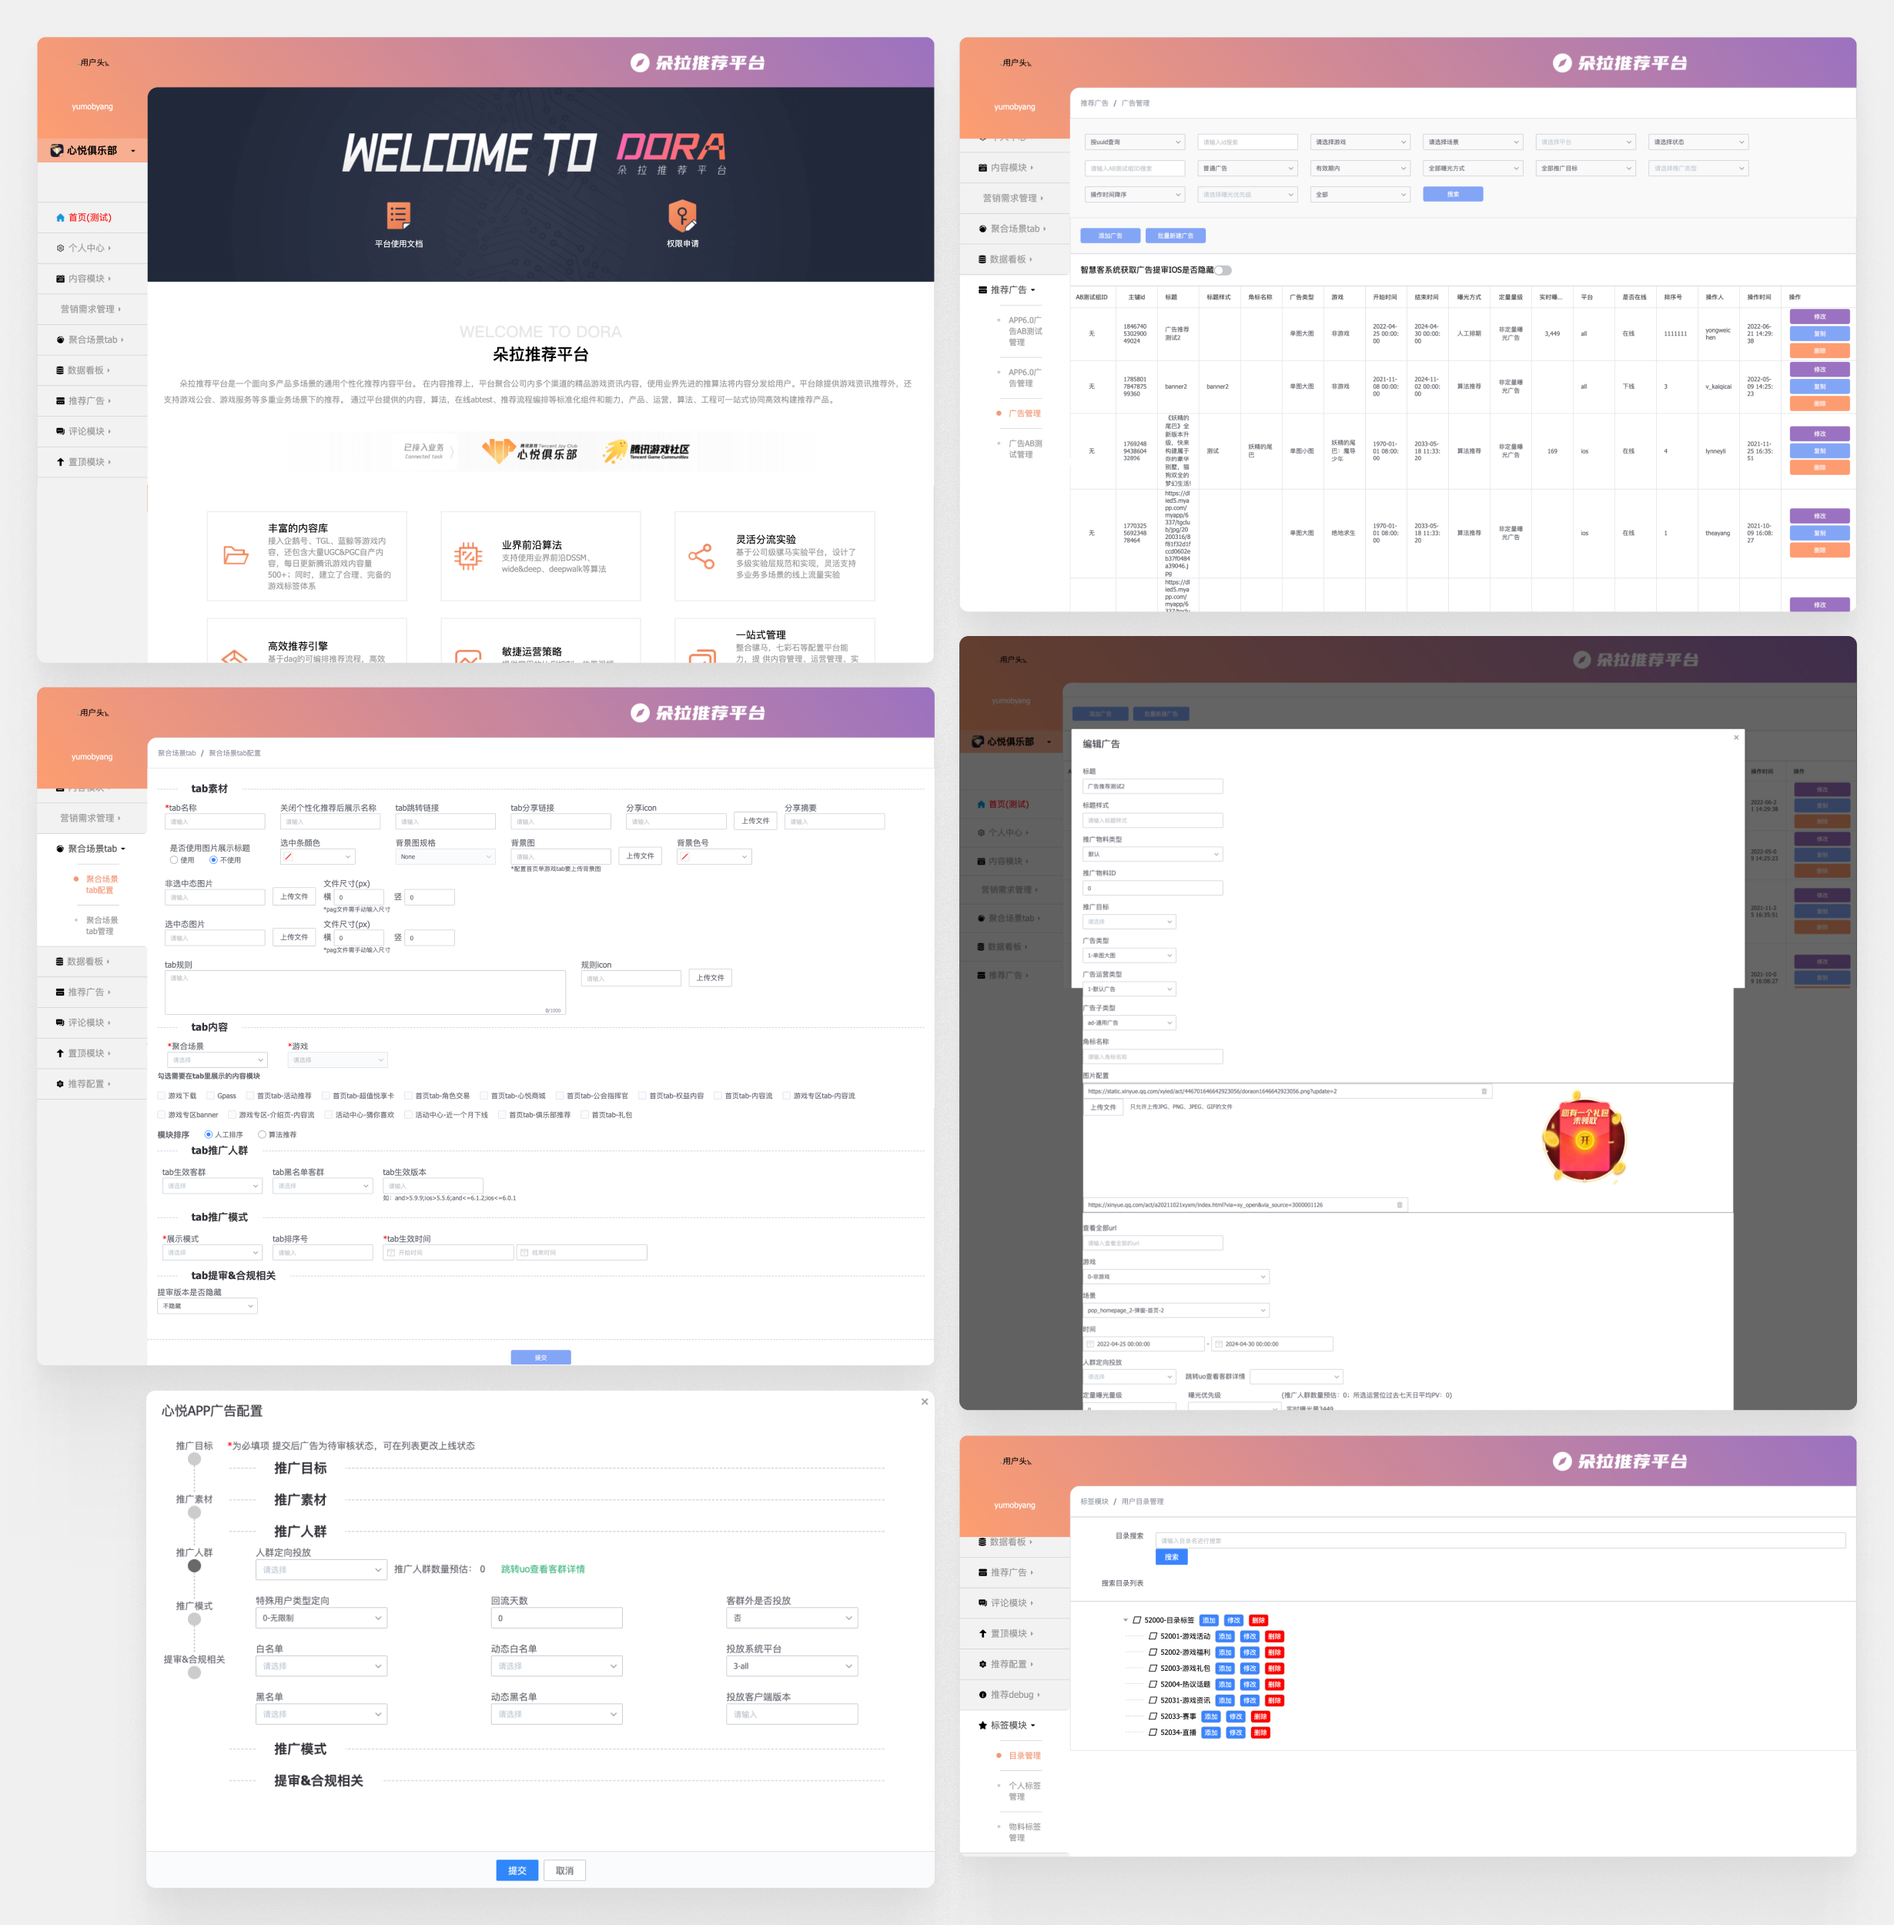
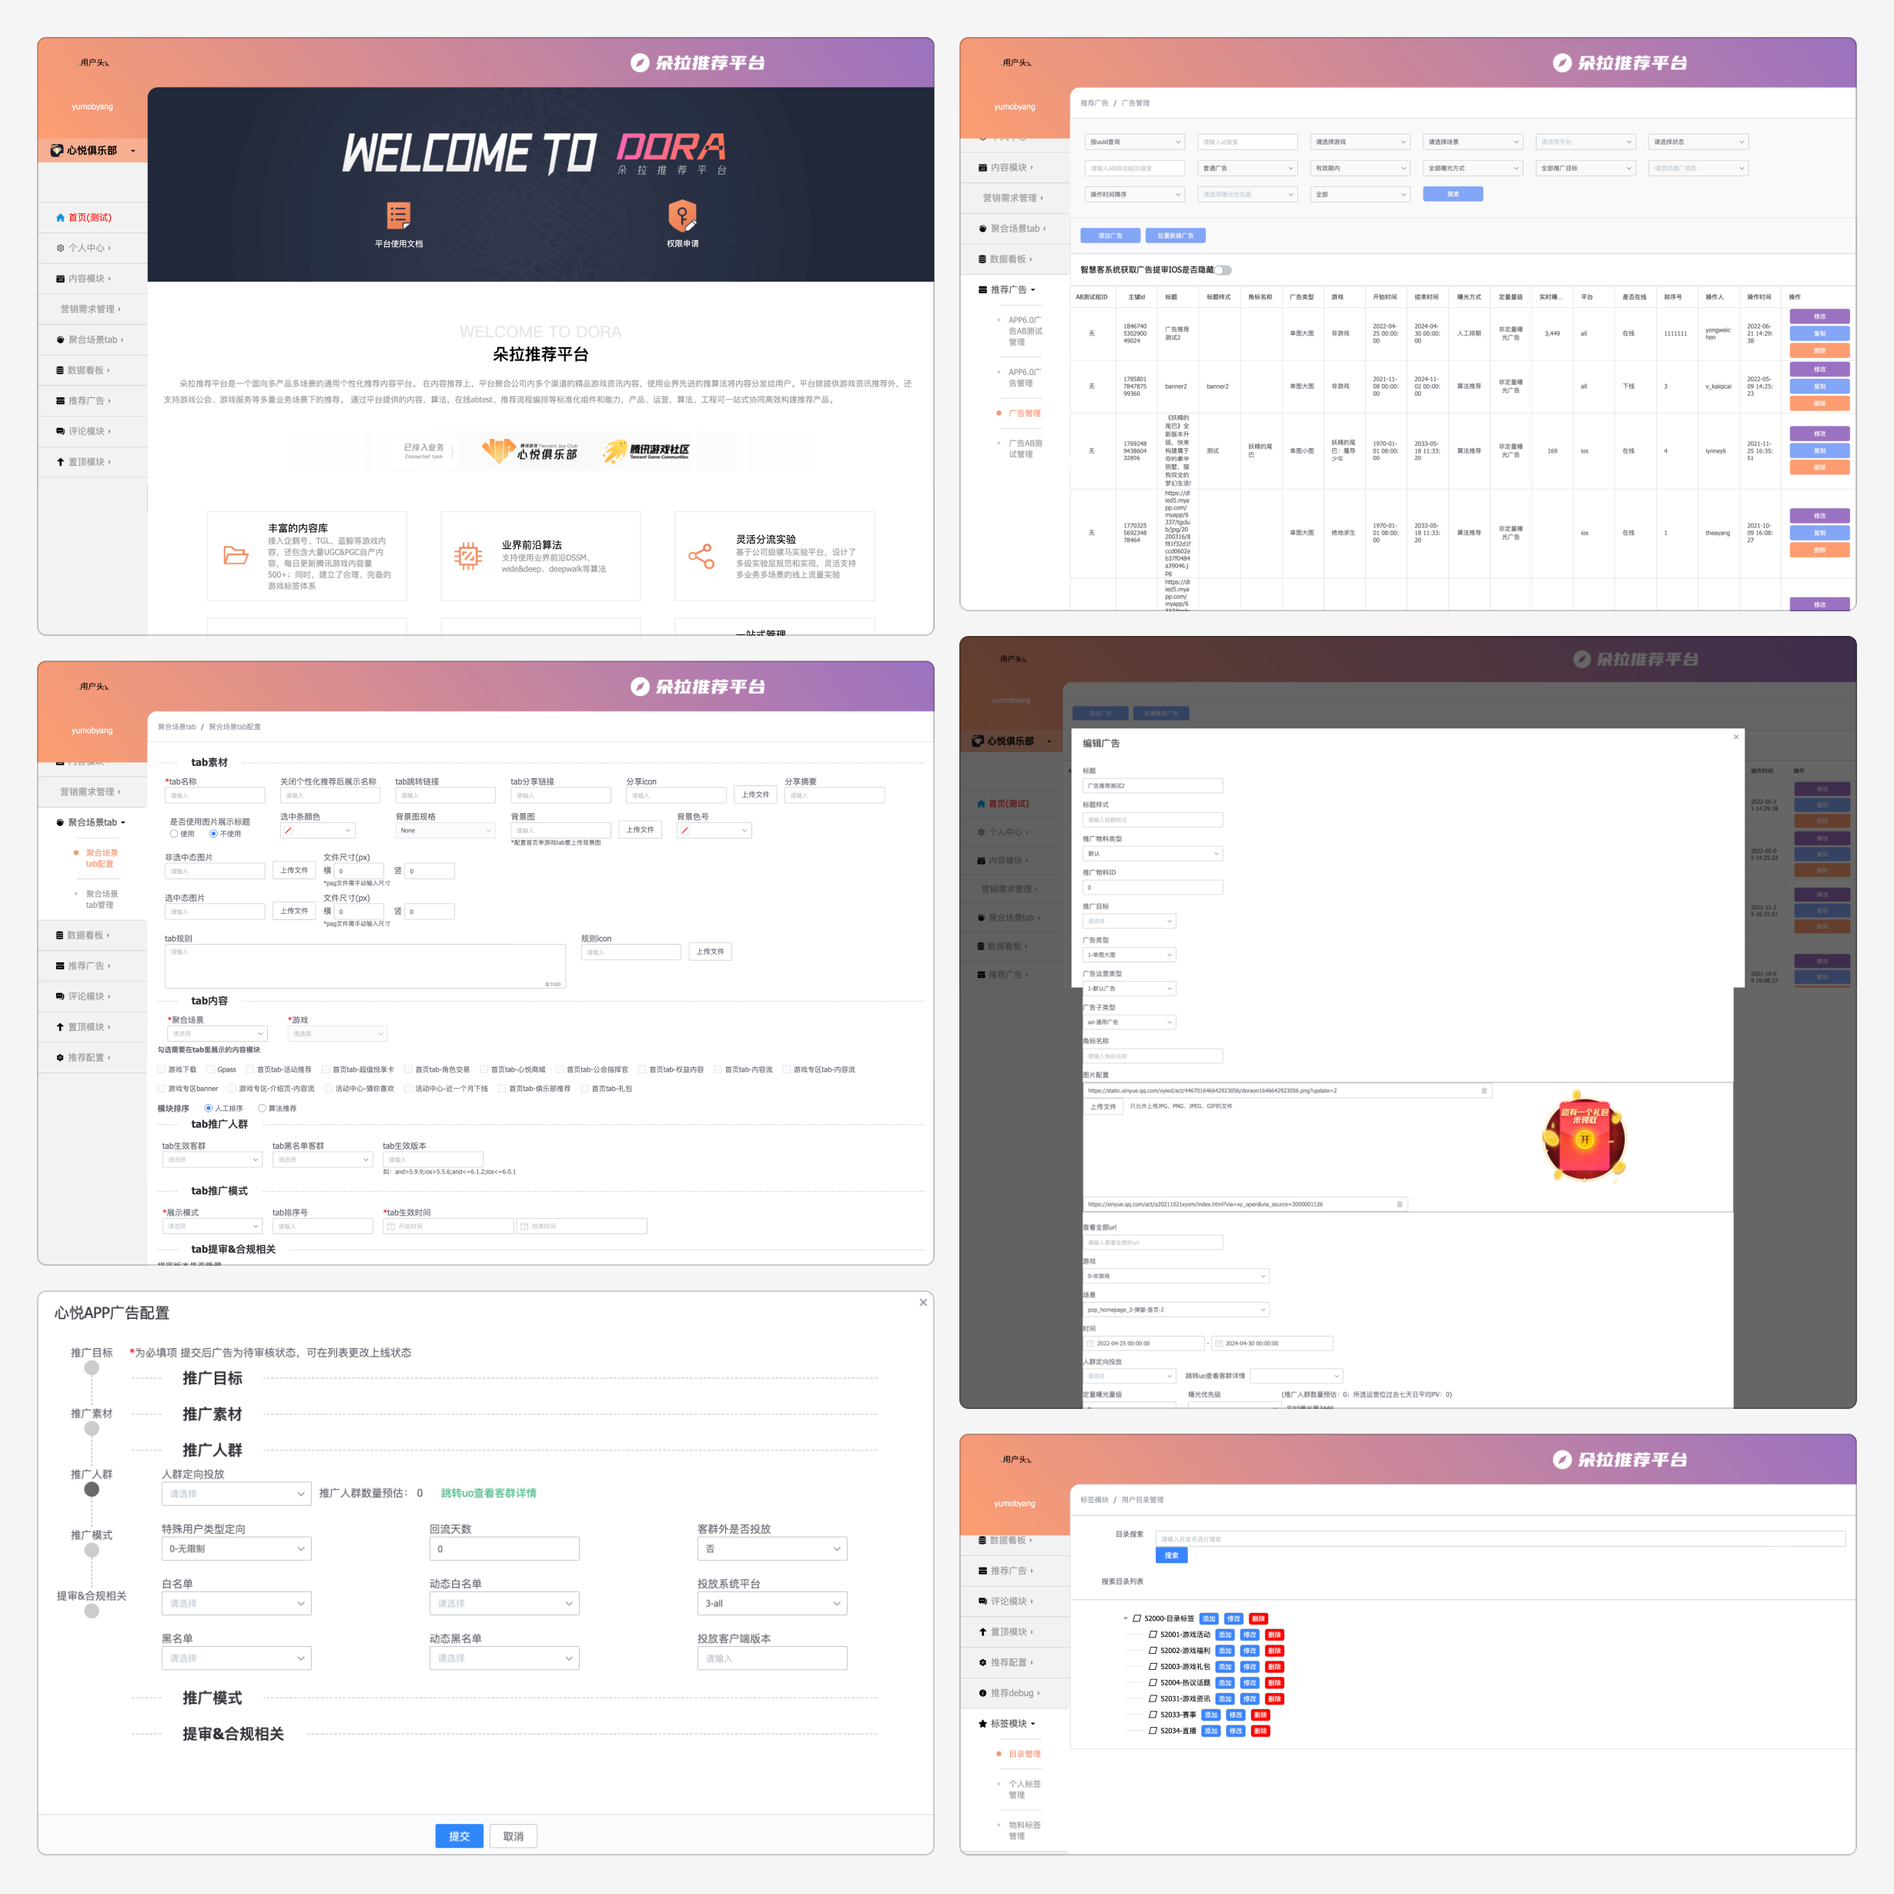
update

diff --git a/src/app/[slug]/page.tsx b/src/app/[slug]/page.tsx
@@ -72,7 +72,7 @@ const Page: React.FC<Params> = ({ params: { slug } }) => {
 
     return <div className={` leading-6 text-zinc-900  ${regularText.className}`}>
 
-        <div className="brightness-95 flex vercelBackground pointer-events-none  -z-40 w-full h-screen fixed">
+        <div className="bg-white brightness-100 flex vvercelBackground pointer-events-none  -z-40 w-full h-screen fixed">
 
             <div className="opacity-30 m-auto relative flex place-items-center before:absolute before:h-[700px] before:w-[900px] before:-translate-x-full before:rounded-full before:bg-gradient-radial before:from-rose-50 before:to-transparent before:blur-3xl before:content-[''] after:absolute after:-z-20 after:h-[400px] after:w-[700px] after:translate-x-1/3 after:bg-gradient-conic after:from-sky-100 after:via-purple-50 after:blur-3xl after:content-[''] ">
             </div>

diff --git a/src/app/globals.css b/src/app/globals.css
@@ -388,7 +388,7 @@ html {
     rgba(28, 29, 33, 0.9) 0px 0px 0px 0px
 }
 
-img {
+.imgg {
 
   box-shadow:
     0 0.5px 1px hsl(0deg 0% 0% / 0.01),

diff --git a/src/content/portfolio/tencent.md b/src/content/portfolio/tencent.md
@@ -20,7 +20,7 @@ orderIndex: 1
 overview: During the summer of 2023 I interned at Tencent’s Interactive Entertainment Group (IEG) as an interface and interaction designer. The majority of my work involved creating HTML5 visuals and fine-tuning UI/UX for the Tencent Games Joy Club mobile app, which I am unfortunately unable to share. However, I was also assigned a separate solo task of a complete overhaul of the B2E recommender system used to promote content across all Tencent gaming apps. On this page I will go through snippets of my redesign of the Dora Platform.
 
 duration: 2 months
-tools: [Photoshop, Figma, CSS]
+tools: [Photoshop, Figma, CSS, Midjourney]
 ---
 
 
